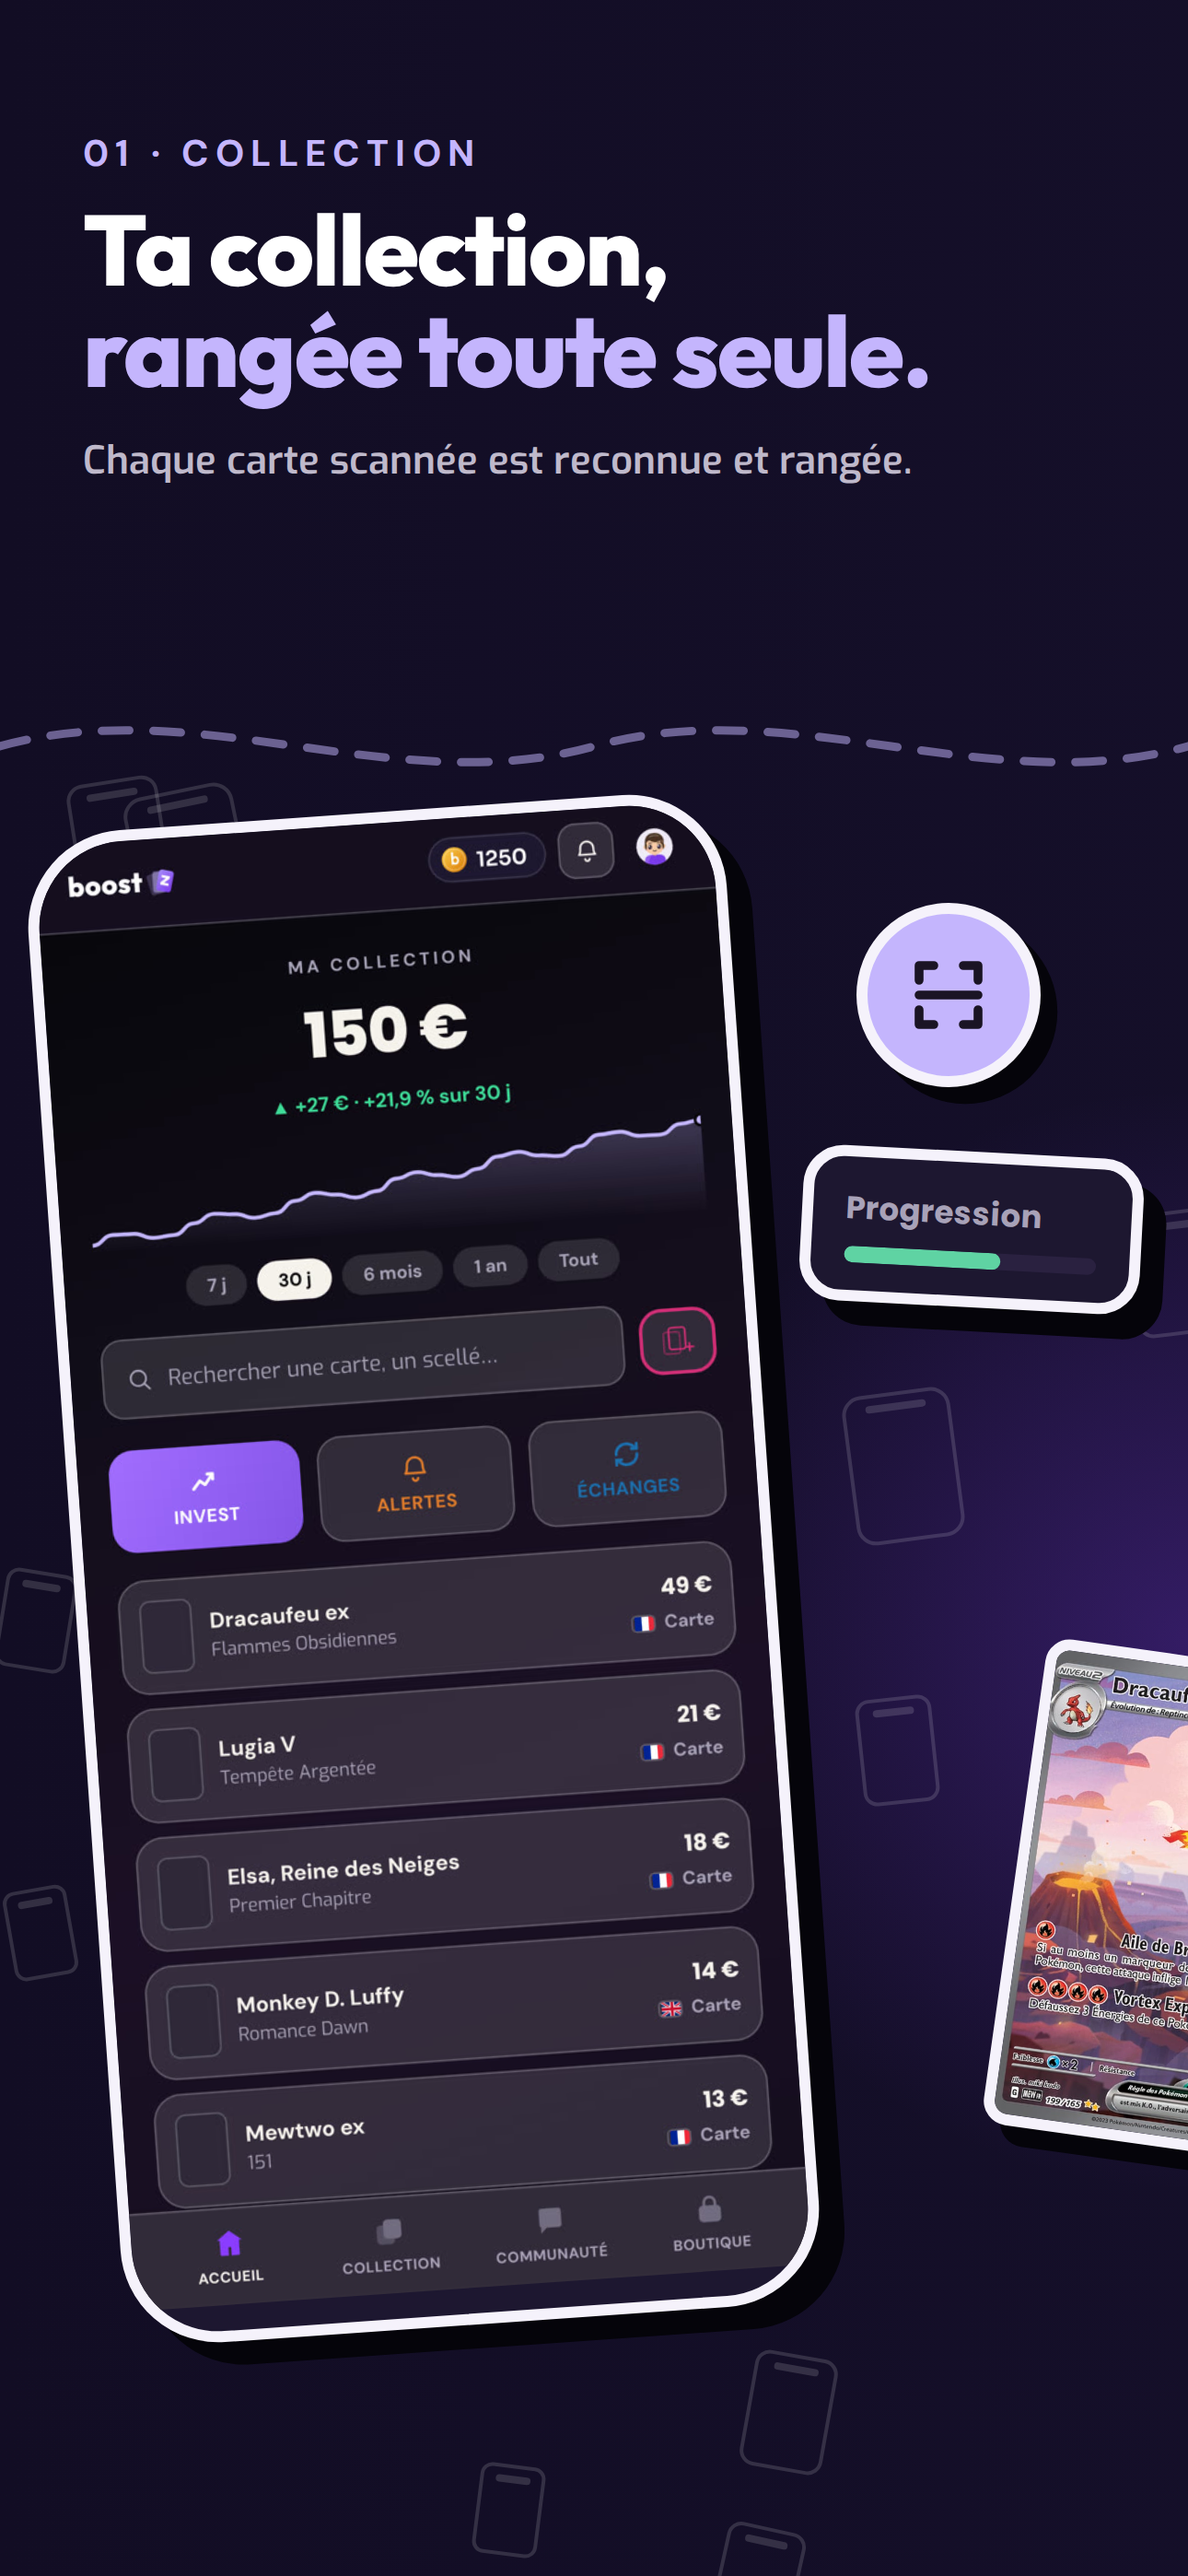
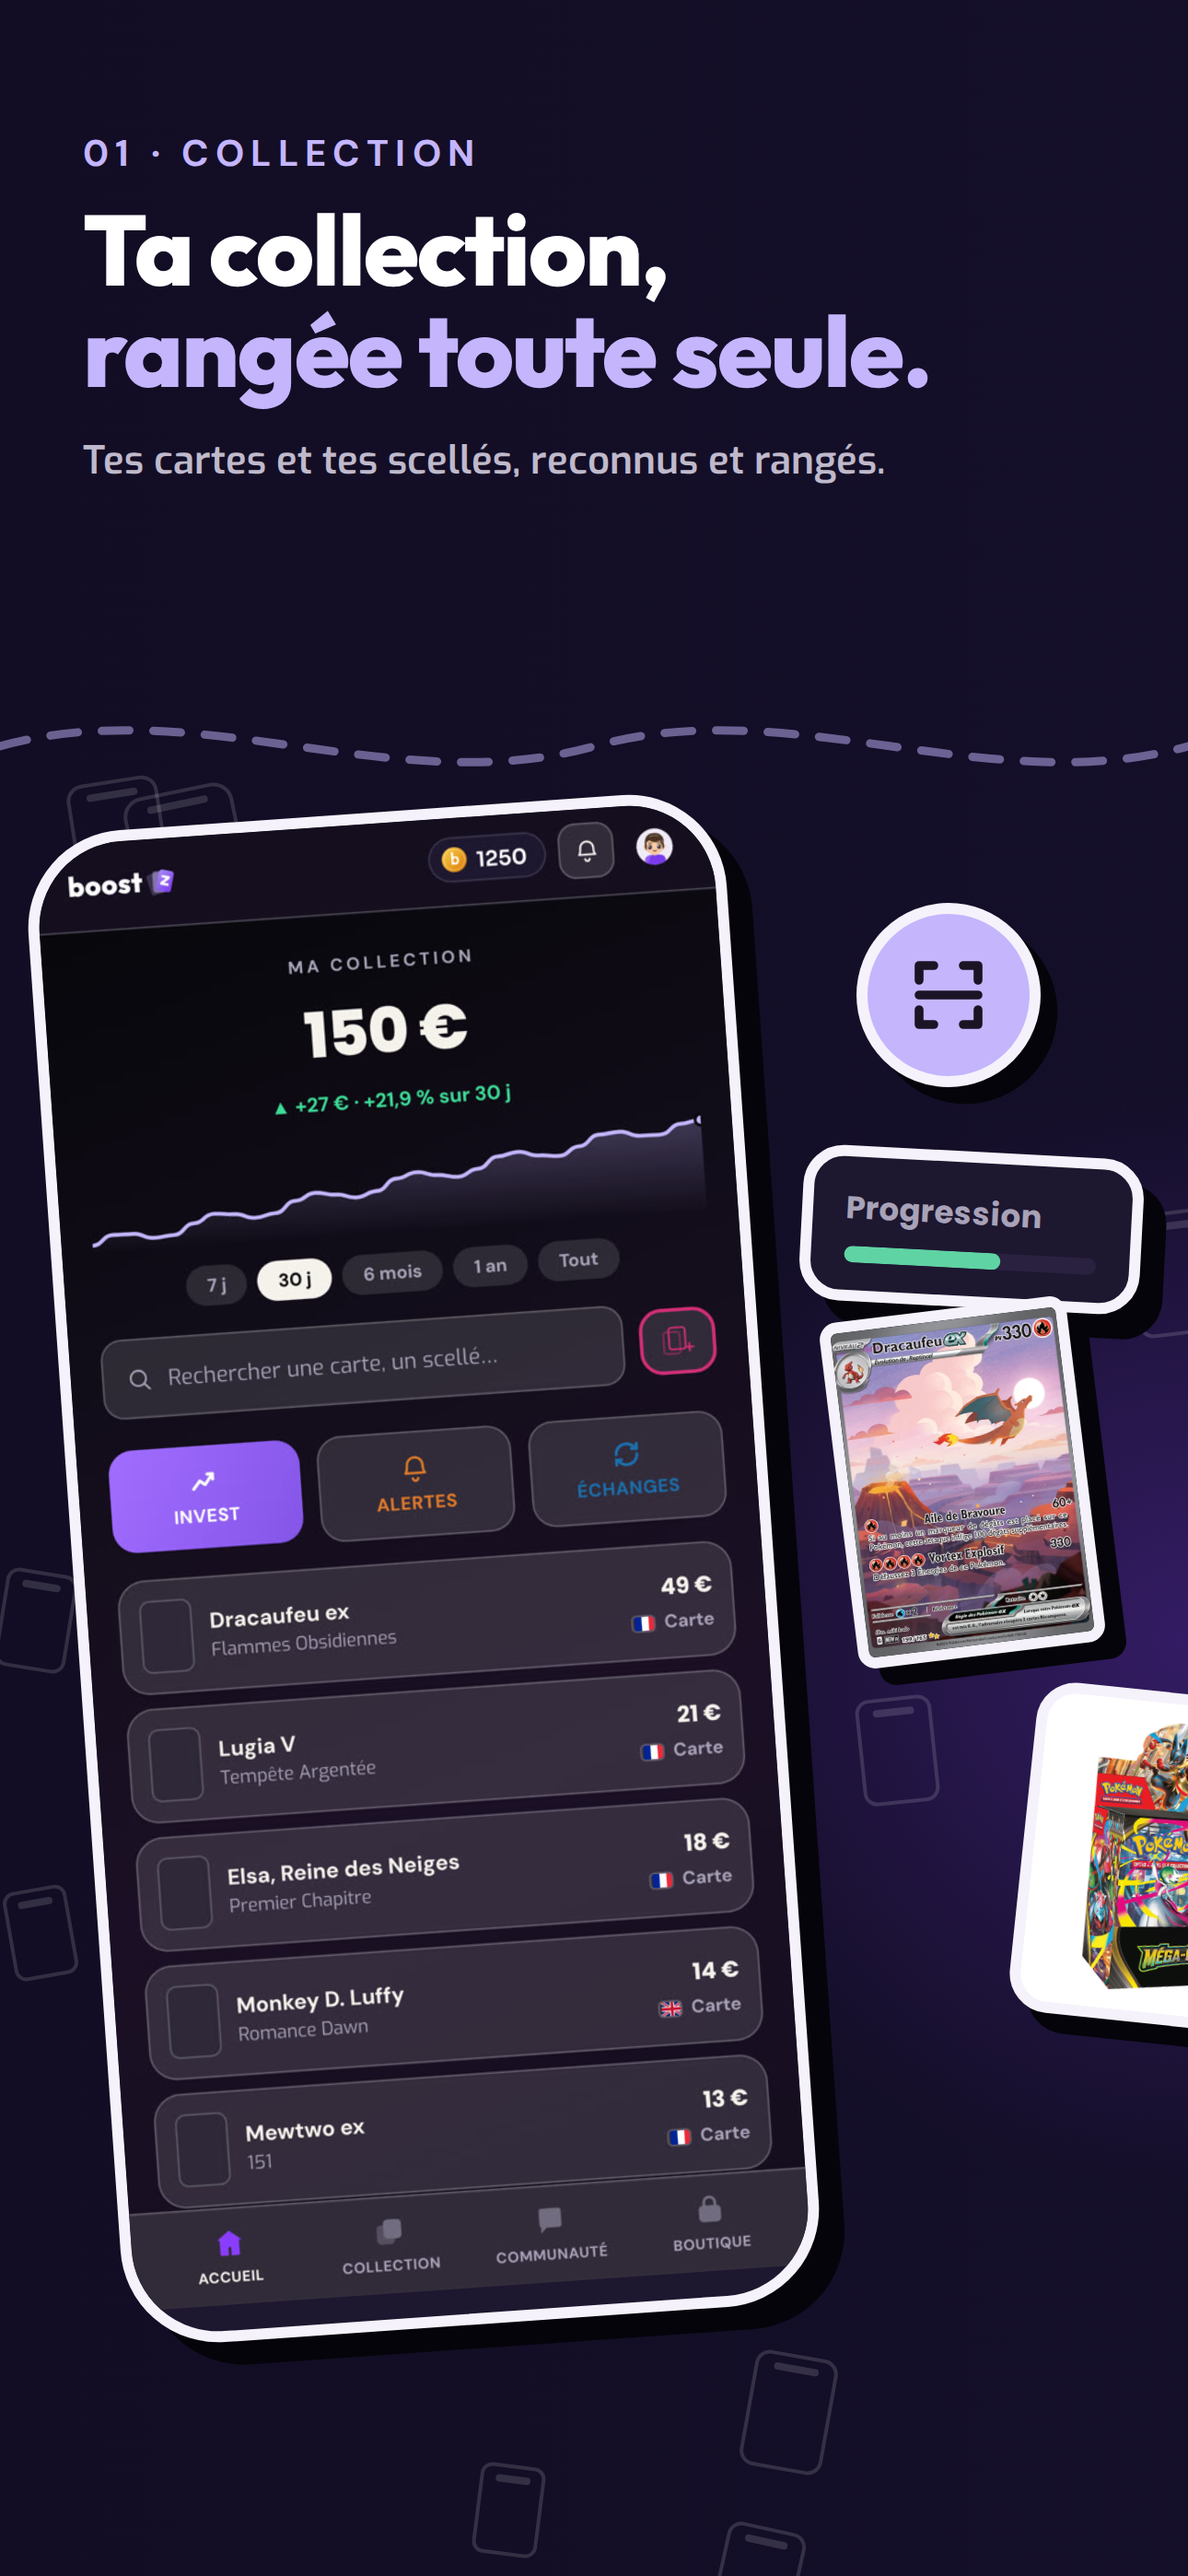
Put cards and sealed products side by side on the first four screenshots
TanPib: the sealed products are essential, and the first four
screenshots must all carry « cartes et scellés ». Their lines now name
both, the showcase screenshot is about sealed products (French One
Piece and Lorcana displays), and the bridges at the first two seams are
a Pokémon display and a booster, in white tiles, next to the cards.

Claude-Session: https://claude.ai/code/session_01KYjmNhJZrtvo4jRtggkgV3

Changed region(s): [[0.6822, 0.4979, 1.0, 0.8401], [0.062, 0.1556, 0.5271, 0.1867], [0.5581, 0.1556, 0.7752, 0.1867]]

diff --git a/gabarits/store.html b/gabarits/store.html
@@ -46,6 +46,8 @@ const phone = (shot, k) => { const w = PW, h = w * 2.164;
   return `<div class="abs" style="left:${phoneX(k)}px;top:${PT}px;width:${w}px;height:${h}px;transform:rotate(${phoneR(k)}deg);border-radius:${w * .14}px;background:#1D1730;border:${STB}px solid ${INK};box-shadow:${STS}px ${STS}px 0 ${SHADOW};overflow:hidden;z-index:5"><img src="shots/app-${shot}.jpg" style="width:100%;display:block"></div>`; };
 // Stickers as on the site: a card, a disc with an icon, a small panel, a label.
 const stc = (src, x, y, w, r, z = 9) => `<div class="abs" style="left:${x}px;top:${y}px;width:${w}px;height:${w * 1.4}px;transform:rotate(${r}deg);border:${STB}px solid ${INK};border-radius:${w * .07}px;box-shadow:${STS * .8}px ${STS * .8}px 0 ${SHADOW};overflow:hidden;z-index:${z};background:#1D1730"><img src="${src}" style="width:100%;height:100%;object-fit:cover;display:block"></div>`;
+// A sealed product shot on white, in a white sticker tile (h: height ratio).
+const tile = (img, x, y, w, r, z = 9, hr = 1) => `<div class="abs" style="left:${x}px;top:${y}px;width:${w}px;height:${w * hr}px;transform:rotate(${r}deg);background:#fff;border:${STB}px solid ${INK};border-radius:${w * .12}px;box-shadow:${STS * .8}px ${STS * .8}px 0 ${SHADOW};overflow:hidden;z-index:${z}"><img src="assets/${img}" style="width:100%;height:100%;object-fit:contain;display:block"></div>`;
 const real = (img, x, y, w, r, z) => stc('assets/' + img, x, y, w, r, z);
 const dos = (g, x, y, w, r, z) => stc(`assets/dos-${g}.svg`, x, y, w, r, z);
 const sdisc = (x, y, d, bg, svg, z = 9) => `<div class="abs" style="left:${x}px;top:${y}px;width:${d}px;height:${d}px;border-radius:50%;background:${bg};border:${STB}px solid ${INK};box-shadow:${STS * .7}px ${STS * .7}px 0 ${SHADOW};display:flex;align-items:center;justify-content:center;z-index:${z}">${svg}</div>`;
@@ -70,8 +72,8 @@ const PANO = `<div class="abs" style="left:0;top:0;width:${PANOW}px;height:${H}p
   <svg class="abs" width="${PANOW}" height="${H}" style="left:0;top:0;z-index:4"><path d="${wave}" fill="none" stroke="rgba(196,181,253,.5)" stroke-width="${PLAY ? 8 : 9}" stroke-linecap="round" stroke-dasharray="${PLAY ? '26 22' : '30 26'}"/></svg>`;
 const BY = PT + (PLAY ? 760 : 920);
 const BRIDGES = [
-  real('carte-dracaufeu-ex-sv035-199.jpg', seam(0) - 190, BY, PLAY ? 340 : 380, 8),
-  real('carte-luffy-op05-119-p1-jp.png', seam(2) - 180, BY - 60, PLAY ? 330 : 360, -7),
+  tile('item-pk-display.jpg', seam(0) - (PLAY ? 160 : 180), BY + 40, PLAY ? 320 : 360, 6),
+  tile('item-pk-booster.png', seam(2) - (PLAY ? 150 : 170), BY - 80, PLAY ? 300 : 340, -7, 9, 1.43),
   coin(seam(4) - 165, BY, PLAY ? 290 : 330, -12) + coin(seam(4) + 170, BY + (PLAY ? 330 : 380), 130, 16),
   dos('pokemon', seam(6) - 250, BY - 40, PLAY ? 260 : 290, -11, 8) + dos('lorcana', seam(6) - 30, BY + 40, PLAY ? 260 : 290, 9, 9),
 ].join('');
@@ -83,21 +85,25 @@ const FY = PT + (PLAY ? 80 : 100), FW = W - PW - 80 - 50 - 50; // the free colum
 add('1-collection', 0, `${phone('accueil', 0)}
   ${sdisc(FREE(0) + 40, FY, PLAY ? 170 : 200, '#C4B5FD', ico('<path d="M4 8V4h4M16 4h4v4M20 16v4h-4M8 20H4v-4M4 12h16"/>', PLAY ? 80 : 96))}
   ${panel(FREE(0) - 20, FY + (PLAY ? 230 : 270), FW + 20, `${pl('Progression')}<div style="height:18px;border-radius:9px;background:#2A2140;margin-top:16px;overflow:hidden"><div style="width:62%;height:100%;background:#5FD3A3;border-radius:9px"></div></div>`, 3)}
-  ${text('01 · Collection', '#C4B5FD', `Ta collection,<br>${ACC('rangée toute seule.')}`, 'Chaque carte scannée est reconnue et rangée.')}`);
+  ${real('carte-dracaufeu-ex-sv035-199.jpg', FREE(0) + 20, FY + (PLAY ? 380 : 440), PLAY ? 240 : 270, -7)}
+  ${text('01 · Collection', '#C4B5FD', `Ta collection,<br>${ACC('rangée toute seule.')}`, 'Tes cartes et tes scellés, reconnus et rangés.')}`);
 
 add('2-langues', 1, `${phone('langues', 1)}
   <div class="abs" style="left:${FREE(1) + 10}px;top:${FY}px;display:flex;flex-direction:column;gap:${PLAY ? 26 : 32}px;z-index:9">${['fr', 'en', 'ja'].map((c, i) => `<img src="assets/drapeau-${c}.svg" style="width:${PLAY ? 190 : 220}px;height:${PLAY ? 126 : 146}px;object-fit:cover;border:${STB}px solid ${INK};border-radius:22px;box-shadow:${STS * .7}px ${STS * .7}px 0 ${SHADOW};transform:rotate(${[-5, 4, -3][i]}deg)">`).join('')}</div>
-  ${text('02 · Langues', '#FF7AB8', `Ta langue,<br>${ACC('ta cote.')}`, 'Une carte japonaise et la même en français n’ont pas le même prix.')}`);
+  ${text('02 · Langues', '#FF7AB8', `Ta langue,<br>${ACC('ta cote.')}`, 'Une carte ou un display en japonais n’a pas le même prix qu’en français.')}`);
 
 add('3-investissement', 2, `${phone('invest', 2)}
   ${label(FREE(2), FY, '149,80 €', { bg: '#5FD3A3', r: 4, fs: PLAY ? 54 : 62 })}
   ${panel(FREE(2) - 10, FY + (PLAY ? 200 : 240), FW + 10, `${pl('En 30 jours')}<div class="ui" style="font-size:${PLAY ? 46 : 54}px;color:#5FD3A3;margin-top:8px;white-space:nowrap">▲ +24,8&nbsp;%</div>`, -3)}
   ${text('03 · Investissement', '#5FD3A3', `Ce que vaut<br>${ACC('ta collection.')}`, 'La cote de tes cartes et de tes scellés, jeu par jeu.')}`);
 
+// 4 - The showcase, with the sealed products up front (TanPib, 04/11/2026:
+// « mentionner le scellé, c'est primordial »). Product shots on white, in white
+// sticker tiles: the French One Piece and Lorcana displays.
 add('4-vitrine', 3, `${phone('vitrine', 3)}
-  ${real('carte-hyperia-241-mickey.jpg', FREE(3) + 20, FY - 20, PLAY ? 250 : 290, -6)}
-  ${sdisc(FREE(3) + (PLAY ? 120 : 140), FY + (PLAY ? 380 : 440), PLAY ? 150 : 170, SUN, ico('<path d="M12 3l2.7 5.6 6.1.9-4.4 4.3 1 6.1L12 17l-5.4 2.9 1-6.1L3.2 9.5l6.1-.9z"/>', PLAY ? 70 : 82))}
-  ${text('Ta vitrine', '#F0C066', `Tes plus belles cartes,<br>${ACC('bien rangées.')}`, 'Tes cartes et tes scellés, comme dans un classeur.')}`);
+  ${tile('item-op-display2.png', FREE(3) + 10, FY - 20, PLAY ? 280 : 320, -6)}
+  ${tile('item-lo-display.png', FREE(3) + 50, FY + (PLAY ? 290 : 330), PLAY ? 280 : 320, 5)}
+  ${text('Cartes et scellés', '#F0C066', `Tes scellés aussi,<br>${ACC('avec leur cote.')}`, 'Boosters, displays et coffrets ont leur place à côté de tes cartes.')}`);
 
 add('5-missions', 4, `${phone('missions', 4)}
   ${label(FREE(4), FY, '+ 35<br>Boosties', { r: 4 })}
